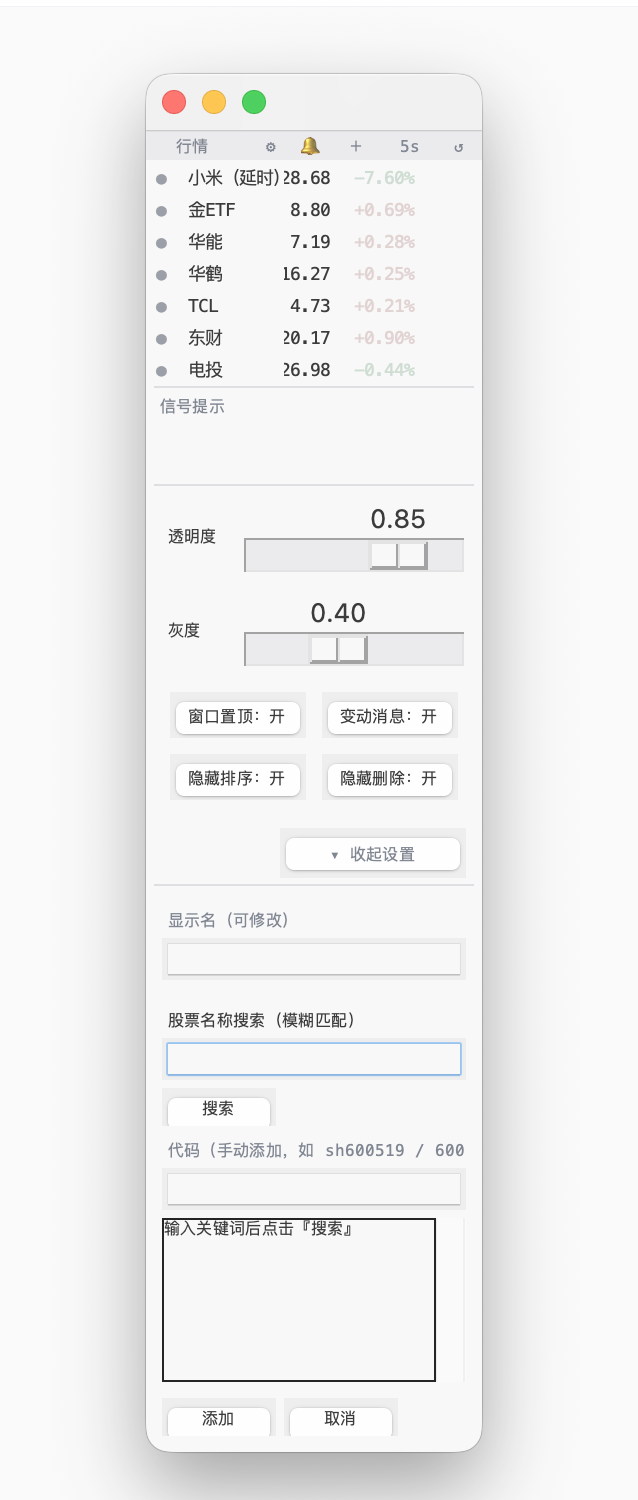
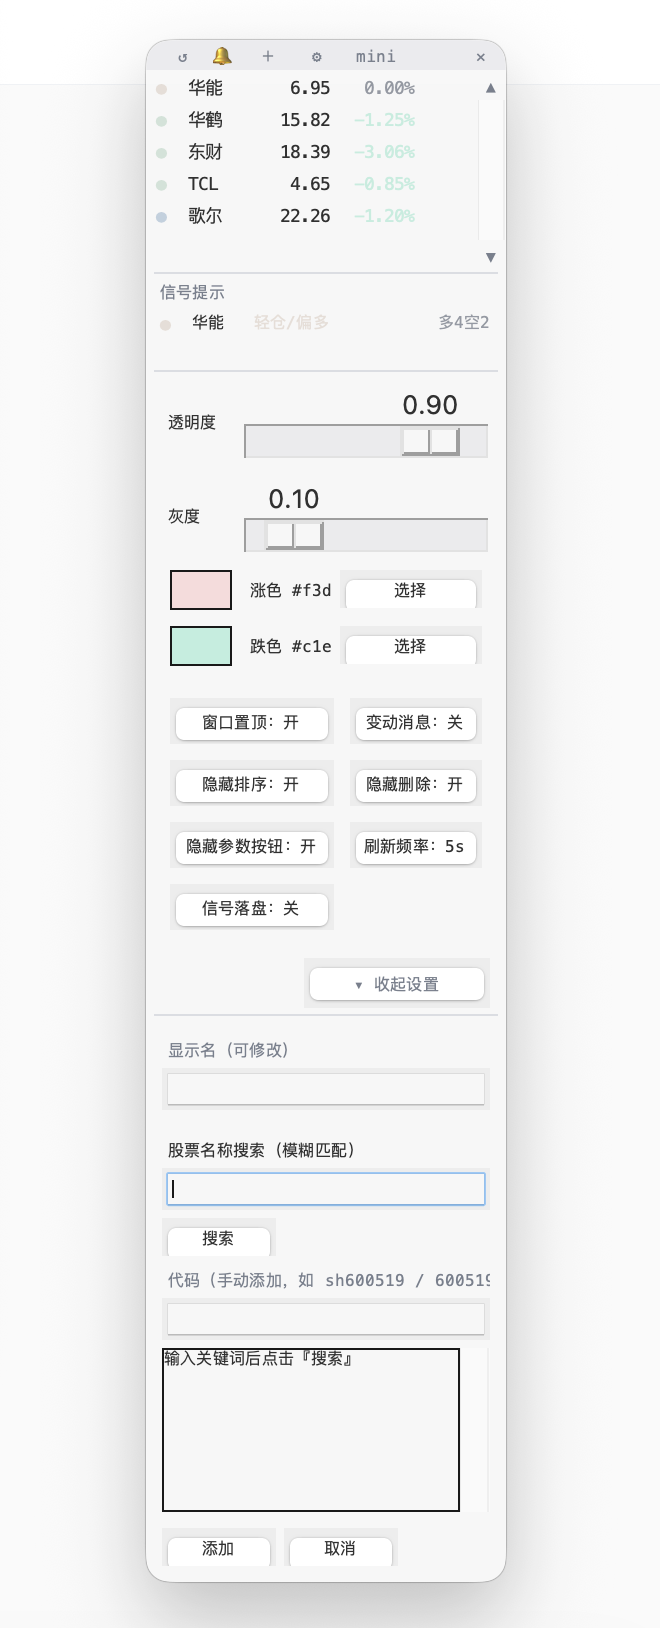
feat: 空白处可拖动窗口 + 关闭按钮移至菜单栏最右; docs: 更新 README 与实机配图
拖拽:
- 拖拽入口统一绑在 root(toplevel): 除按钮/输入框/行情行等有自身左键语义的控件外,
  窗口内任意空白处(行情区画布/信号区/状态栏/面板背景/顶部空档)按住左键都能拖动
- _drag_allowed 判定让路: _no_drag 标记(行情行=复制代码) / Entry·Listbox·Scale·Scrollbar / cursor=hand2 按钮式 Label
- 新增 drag['active'] 状态: 交互控件上按下时本次手势不拖窗

菜单栏:
- ✕ 关闭按钮改为 pack(side='right'), 贴菜单栏最右端(full/mini 两种模式都在)

docs:
- 配图换为最新实机截图: docs/preview-mini.png(mini 极简视图) + docs/preview-expanded.png(展开视图, 覆盖旧图)
- README: 图注改为 mini 极简视图/展开视图并与实际一致; 新增窗口位置记忆、空白拖拽说明; 移除无引用的 preview-compact.png

测试: 全量 212 用例通过 + 启动冒烟(限时直跑)无报错

Changed region(s): [[0.2085, 0.0307, 0.7743, 0.9813], [0.4765, 0.3373, 0.7147, 0.6133], [0.7147, 0.0307, 0.7445, 0.0613]]

diff --git a/stock_float.py b/stock_float.py
@@ -1833,21 +1833,25 @@ def run_hud(stocks: List[dict], settings: dict, log_fn: Optional[Callable[[dict]
 
     mini_btn.bind("<Button-1>", lambda e: _toggle_mini())
 
-    # 关闭按钮 ✕(header 最右): 静默退出; mini 与 full 两种模式都保留(不参与折叠)
+    # 关闭按钮 ✕(菜单栏最右侧, side="right" 贴右边缘): 静默退出;
+    # mini 与 full 两种模式都保留(不参与 header 折叠列表)
     close_btn = tk.Label(header, text=" ✕ ", bg=style["header"], fg=style["fg_dim"],
                          font=style["FONT_SM"], cursor="hand2")
-    close_btn.pack(side="left", padx=(0, 1))
+    close_btn.pack(side="right", padx=(2, 2))
     close_btn._orig_text = close_btn.cget("text")
     close_btn._orig_padx = close_btn.cget("padx")
     close_btn.bind("<Button-1>", lambda e: _quit())
 
-    drag = {"x": 0, "y": 0}
+    drag = {"x": 0, "y": 0, "active": False}   # active: 本次按下是否允许拖窗(交互控件为 False)
 
     def start_drag(e):
         drag["x"] = e.x_root - root.winfo_x()
         drag["y"] = e.y_root - root.winfo_y()
+        drag["active"] = True          # 本次拖拽生效(由 _root_drag_press 判定是否允许)
 
     def do_drag(e):
+        if not drag.get("active"):
+            return                     # 按下时被判定为"交互控件" -> 不做窗口拖动
         root.geometry(f"+{e.x_root - drag['x']}+{e.y_root - drag['y']}")
 
     def end_drag(e=None):
@@ -1855,6 +1859,7 @@ def run_hud(stocks: List[dict], settings: dict, log_fn: Optional[Callable[[dict]
 
         仅松手时写盘一次(拖拽过程中不写, 避免每帧 IO); 写盘失败静默忽略(仅内存生效)。
         """
+        drag["active"] = False
         try:
             x, y = root.winfo_x(), root.winfo_y()
             settings["win_x"] = x
@@ -1864,10 +1869,48 @@ def run_hud(stocks: List[dict], settings: dict, log_fn: Optional[Callable[[dict]
         except Exception:
             pass
 
+    def _drag_allowed(w) -> bool:
+        """该控件上的左键按下是否应触发窗口拖动。
+
+        判断依据 = 控件是否有**自身的左键语义**:
+        - 按钮式 Label: 项目内所有按钮统一 cursor=hand2 -> 拒绝(交给它自己的 handler);
+        - 输入框 / 列表 / 滑块 / 滚动条 / 系统按钮 -> 拒绝;
+        - 行情行 / 信号行: 点击=复制代码, 构建时标了 `_no_drag` -> 拒绝;
+        - 其余(窗口/内容区/画布/状态栏/面板空白等背景控件) -> 允许拖拽。
+        """
+        if getattr(w, "_no_drag", False):
+            return False
+        try:
+            if isinstance(w, (tk.Entry, tk.Listbox, tk.Scale, tk.Scrollbar,
+                              tk.Text, tk.Button)):
+                return False
+            cur = str(w.cget("cursor") or "").lower()
+            if cur in ("hand2", "pointinghand", "hand"):
+                return False
+        except Exception:
+            pass
+        return True
+
+    def _root_drag_press(e):
+        """窗口层拖拽入口: 空白/背景处按下左键即拖动窗口。
+
+        绑在 root(toplevel) 上 —— 子控件事件沿 bindtags(widget -> class -> toplevel -> all)
+        到达这里, 因此**所有区域都被覆盖**: 交互控件已在各自的 handler 里处理完, 这里再按
+        `_drag_allowed` 让路(不启动拖拽), 互不干扰。
+        """
+        if not _drag_allowed(e.widget):
+            drag["active"] = False     # 明确关掉, 避免上一轮残留状态导致误拖
+            return
+        start_drag(e)
+
     for w in (header, htitle):
         w.bind("<ButtonPress-1>", start_drag)
         w.bind("<B1-Motion>", do_drag)
         w.bind("<ButtonRelease-1>", end_drag)
+    # 空白处拖拽(全局兜底): 覆盖行情区/信号区/状态栏/各面板背景等所有非交互区域
+    root.bind("<ButtonPress-1>", _root_drag_press, add="+")
+    root.bind("<B1-Motion>", do_drag, add="+")
+    root.bind("<ButtonRelease-1>", end_drag, add="+")
 
     # 鼠标移开自动淡出, 悬停恢复清晰(B1): 离开窗口降到淡出透明度, 进入恢复用户设定基值。
     # 注意: 不经由 _apply_alpha(它会持久化并覆盖基值), 直接改 -alpha 属性, 无几何抖动。
@@ -2169,6 +2212,8 @@ def run_hud(stocks: List[dict], settings: dict, log_fn: Optional[Callable[[dict]
         rows[code] = (sig_l, name_l, price_l, chg_l, dl_l)
         quote_frames[code] = f
         row_vis[code] = True
+        # 行情行不参与"空白处拖拽": 点它的语义是复制代码(见 _on_row_click)
+        f._no_drag = True
         # 右键菜单: 参数设置 + 删除(功能①④)——保留, 非 macOS 用户仍可用; mac 上以 ⚙/🗑 兜底
         f.bind("<Button-3>", lambda e, c=code: _show_row_menu(e, c))
         # 左键点击行情行(非工具按钮区域)复制股票代码(B2)
@@ -2936,6 +2981,11 @@ def run_hud(stocks: List[dict], settings: dict, log_fn: Optional[Callable[[dict]
     # ---- 底部状态 ----
     status = tk.Label(center, text="连接中…", bg=style["bg"], fg=style["fg_dim"], font=style["FONT_SM"], anchor="w")
     status.pack(fill="x", padx=2, pady=(0, 0))
+
+    # ---- 拖拽增强(2026-09-11): 空白/背景处均可拖动窗口 ----
+    # 拖拽入口已统一绑在 root 上(见上方 _root_drag_press), 覆盖所有非交互区域,
+    # 因此这里无需再逐个容器绑定。
+
 
     # 初始位置: 优先用上次拖拽保存的位置(config: win_x/win_y), 否则默认「水平靠右 + 垂直 3/4」。
     # 只设位置不设尺寸, 让 Tk 根据内容自适应(避免硬编码 205/280 过窄/过宽);

diff --git a/test_stock_float.py b/test_stock_float.py
@@ -3159,7 +3159,7 @@ class TestMiniModeContract(unittest.TestCase):
         self.assertTrue(found, "回归: 启动时未按 mini_mode 恢复显示模式")
 
     def test_close_button_visible_in_both_modes(self):
-        """header 必须有 ✕ 关闭按钮并绑定退出, 且**不参与 mini 折叠**(两种模式都要有)。"""
+        """header 关闭按钮必须: ① 绑定退出 ② 排在菜单栏最右侧(side="right") ③ 不参与 mini 折叠。"""
         hud = next(n for n in self._tree.body
                    if isinstance(n, ast.FunctionDef) and n.name == "run_hud")
         funcs = {f.name: f for f in hud.body if isinstance(f, ast.FunctionDef)}
@@ -3169,18 +3169,25 @@ class TestMiniModeContract(unittest.TestCase):
                       if isinstance(n, ast.Name)}
         self.assertNotIn("close_btn", sync_names,
                          "回归: close_btn 被纳入 header 折叠列表(mini 模式下会消失)")
-        # 按需已绑定点事件
+        # 必须用 pack(side="right") 贴菜单栏最右
+        close_pack = [
+            n for n in ast.walk(hud)
+            if isinstance(n, ast.Call) and isinstance(n.func, ast.Attribute)
+            and n.func.attr == "pack"
+            and isinstance(n.func.value, ast.Name) and n.func.value.id == "close_btn"
+        ]
+        self.assertTrue(close_pack, "回归: close_btn 未调用 pack")
+        sides = {kw.value.value for n in close_pack for kw in n.keywords
+                 if kw.arg == "side" and isinstance(kw.value, ast.Constant)}
+        self.assertEqual(sides, {"right"},
+                         "回归: close_btn 未靠在菜单栏最右侧(pack side='right')")
+        # 已绑定点事件
         binds = [n for n in ast.walk(hud)
                  if isinstance(n, ast.Call) and isinstance(n.func, ast.Attribute)
                  and n.func.attr == "bind"]
         bound = any(isinstance(n.func.value, ast.Name) and n.func.value.id == "close_btn"
                     for n in binds)
         self.assertTrue(bound, "回归: close_btn 未绑定点击事件")
-        # header 显隐统一委托 _sync_header_buttons(其折叠列表已确认不含 close_btn)
-        mini_calls = {n.func.id for n in ast.walk(funcs["_apply_mini_mode"])
-                      if isinstance(n, ast.Call) and isinstance(n.func, ast.Name)}
-        self.assertIn("_sync_header_buttons", mini_calls,
-                      "回归: _apply_mini_mode 未委托 header 显隐(可能误折叠关闭按钮)")
 
     def test_state_dicts_not_used_before_definition(self):
         """AST 顺序检查: run_hud 内状态字典不得在定义前被引用(否则启动即 UnboundLocalError)。
@@ -3228,6 +3235,42 @@ class TestMiniModeContract(unittest.TestCase):
                     if name in used and name not in defined:
                         self.fail(f"回归: {name} 在定义前被引用 -> 启动即 UnboundLocalError(闪退)")
             defined |= new
+
+    def test_blank_areas_are_draggable(self):
+        """空白/背景处均可拖动窗口, 且交互控件自动让路。
+
+        2026-09-11 用户诉求: 「界面空白处(即非按钮区域)都可以拖拽」。
+        最终实现 = 拖拽入口统一绑在 root(toplevel) 上, 子控件事件沿 bindtags 到达 root;
+        再由 `_drag_allowed` 判定: 有自身左键语义的控件(按钮式 Label cursor=hand2 / Entry /
+        Listbox / Scale / Scrollbar / 行情行 _no_drag)让路, 其余(含行情画布这类大片空白)可拖。
+        """
+        hud = next(n for n in self._tree.body
+                   if isinstance(n, ast.FunctionDef) and n.name == "run_hud")
+        funcs = {f.name: f for f in hud.body if isinstance(f, ast.FunctionDef)}
+        for name in ("_drag_allowed", "_root_drag_press", "start_drag", "do_drag", "end_drag"):
+            self.assertIn(name, funcs, f"回归: 缺 {name}(空白拖拽链路不完整)")
+        # 允许拖拽的判定: 拒绝 _no_drag 与按钮式 Label / 交互控件
+        allowed_src = ast.dump(funcs["_drag_allowed"])
+        self.assertIn("_no_drag", allowed_src, "回归: 未排除行情行(_no_drag)")
+        self.assertIn("cursor", allowed_src, "回归: 未按 cursor 排除按钮式 Label")
+        for cls in ("Entry", "Listbox", "Scale", "Scrollbar"):
+            self.assertIn(cls, allowed_src, f"回归: 未排除 {cls}(会与输入/调节冲突)")
+        # do_drag 必须检查 active(按下被判定为交互控件时不拖)
+        self.assertIn("active", ast.dump(funcs["do_drag"]),
+                      "回归: do_drag 未检查 active(交互控件上仍会拖窗)")
+        # root 上必须绑定拖拽三事件
+        root_binds = set()
+        for n in ast.walk(hud):
+            if (isinstance(n, ast.Call) and isinstance(n.func, ast.Attribute)
+                    and n.func.attr == "bind"
+                    and isinstance(n.func.value, ast.Name) and n.func.value.id == "root"):
+                for a in n.args:
+                    if isinstance(a, ast.Constant) and isinstance(a.value, str):
+                        root_binds.add(a.value)
+        for ev in ("<ButtonPress-1>", "<B1-Motion>", "<ButtonRelease-1>"):
+            self.assertIn(ev, root_binds, f"回归: root 未绑定 {ev}(空白处拖不动)")
+        # 行情行必须标记不可拖(点击=复制代码)
+        self.assertIn("_no_drag", Path(sf.__file__).read_text(encoding="utf-8"))
 
     def test_header_buttons_sync_extracted_and_called_every_refresh(self):
         """_sync_header_buttons 必须存在, 且 refresh 每轮调用(header 按钮显隐自愈)。
